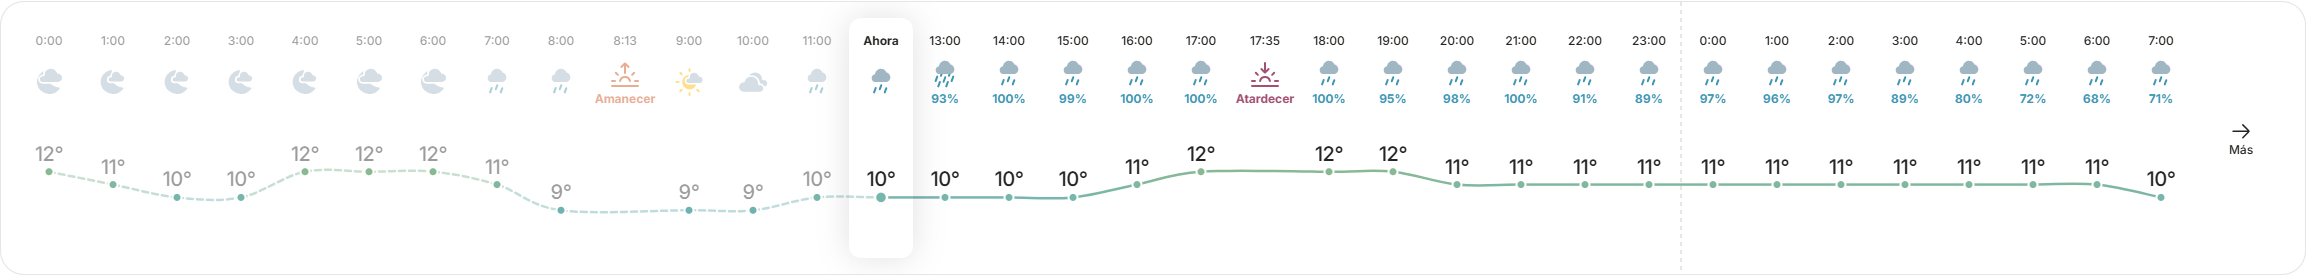
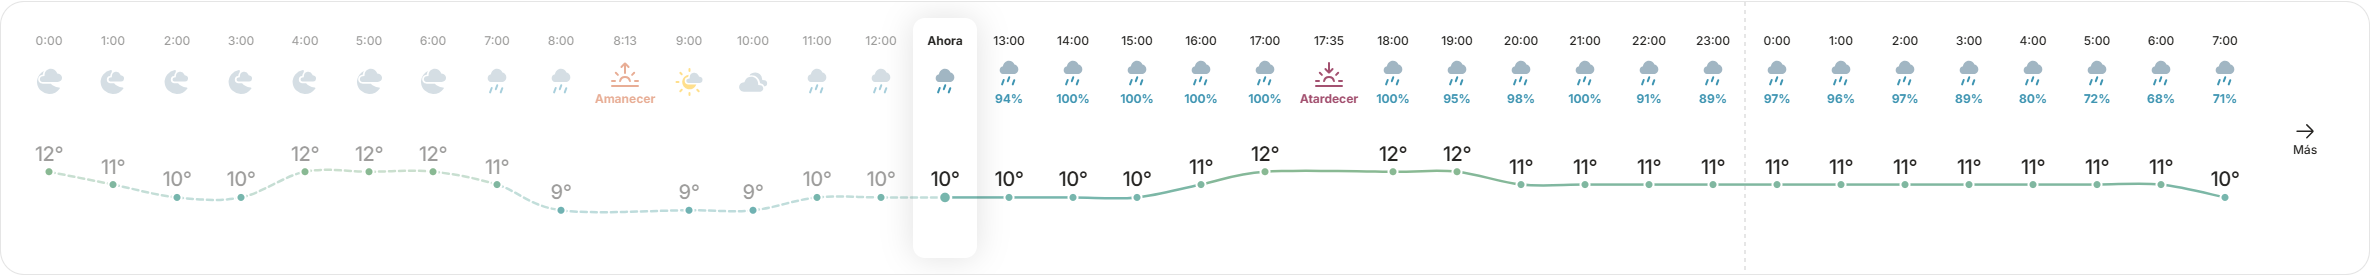
Capturar todos los días de la previsión meteorológica

diff --git a/index.html b/index.html
@@ -72,9 +72,9 @@
       </section>
 
       <section id="eguraldia-10-egun" aria-labelledby="weather-daily-title">
-        <div class="section-heading"><h2 id="weather-daily-title">10 eguneko iragarpena</h2><span>Weather.com · °C</span></div>
+        <div class="section-heading"><h2 id="weather-daily-title">Eguneroko iragarpena</h2><span>Weather.com · °C</span></div>
         <div class="capture-card capture-card--scroll" role="region" aria-labelledby="weather-daily-title" tabindex="0">
-          <img src="assets/captures/weather-ten-day.png" alt="Donostiako 10 eguneko eguraldi-iragarpena, tenperatura, euria eta haizea" />
+          <img src="assets/captures/weather-ten-day.png" alt="Donostiako eguraldi-iragarpena egunez egun, tenperatura, euria eta haizea" />
         </div>
       </section>
     </main>
